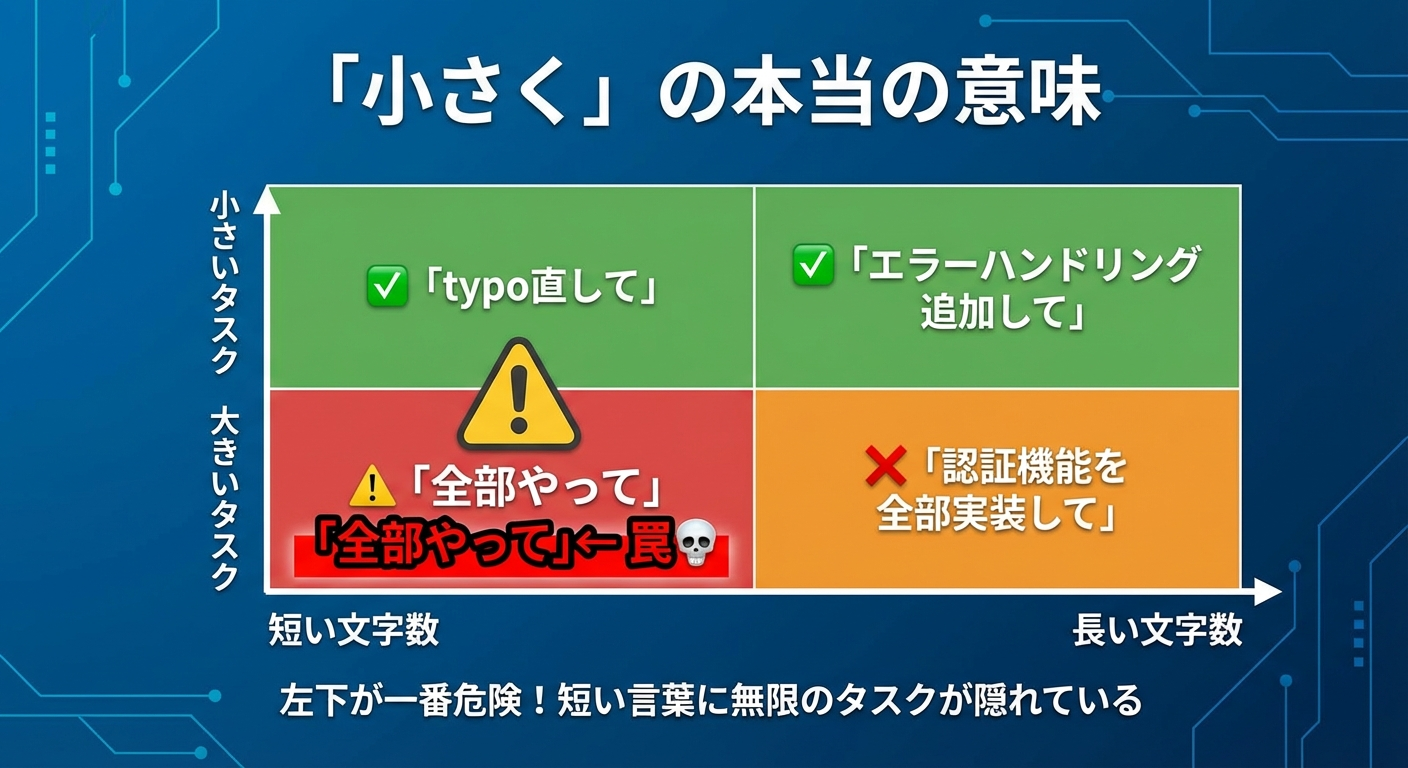
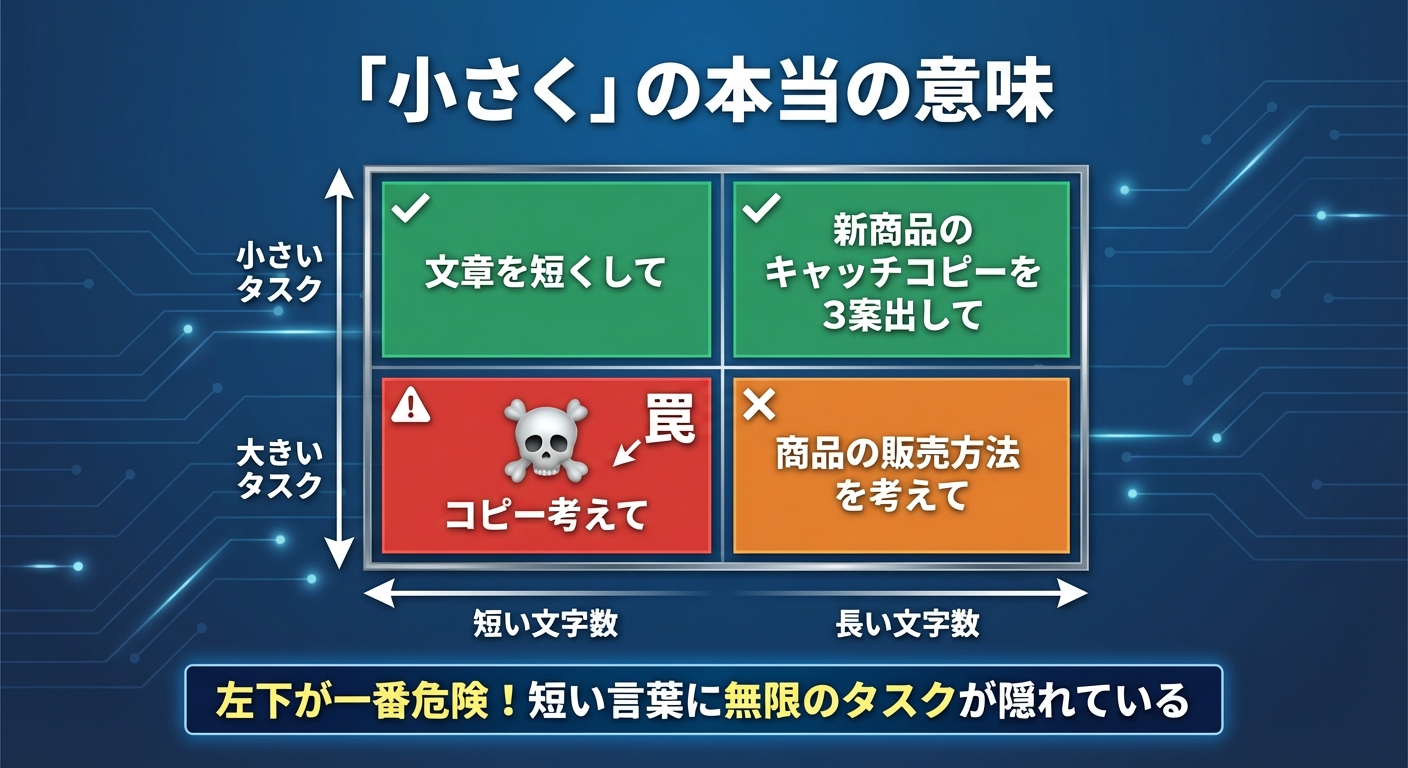
fix(book): 「小さく」の本当の意味の図を一般向けに変更 (#172)
- エンジニア向け例を一般向けに差し替え
  - 「typo直して」→「文章を短くして」
  - 「エラーハンドリング追加して」→「新商品のキャッチコピーを3案出して」
  - 「全部やって」→「コピー考えて」
  - 「認証機能を全部実装して」→「商品の販売方法を考えて」
- 「コピー」の曖昧さを解説に追加
- コードブロック内の例も一般向けに更新

Closes #172

diff --git a/books/ai-small-is-accurate/00_preface.md b/books/ai-small-is-accurate/00_preface.md
@@ -67,7 +67,12 @@ AIにお願いするとき、あなたは「地図」を渡しているような
 
 > ⚠ **「小さく」とは、スコープ（範囲）を絞ること**
 >
-> 左下の「全部やって」が一番危険！短い言葉に無限のタスクが隠れています。
+> 左下の「コピー考えて」が一番危険！
+> - 「コピー」って何？キャッチコピー？複製？広告文？
+> - 何案出すの？3案？10案？
+> - どんなトーンで？
+>
+> たった6文字の中に、無限のタスクが隠れています。
 
 ```text
 【「小さい」の本当の意味】
@@ -75,16 +80,16 @@ AIにお願いするとき、あなたは「地図」を渡しているような
 キーワード：AIが考える範囲を狭める
 
 ❌ 文字数が少ない ≠ 小さいタスク
-   「全部やって」（5文字）
+   「コピー考えて」（6文字）
    　　↓
-   指示は短いが、AIが考える範囲は無限大
+   指示は短いが、「コピー」の意味すら曖昧
    　　↓
    精度70%で止まる
 
 ✅ 範囲が明確 ＝ 小さいタスク
-   「ユーザー登録APIのバリデーション処理を書いて」（23文字）
+   「新商品のキャッチコピーを3案出して」（18文字）
    　　↓
-   指示は長いが、AIが考える範囲は狭い
+   指示は長いが、対象・数・形式が明確
    　　↓
    精度98%を達成
 
